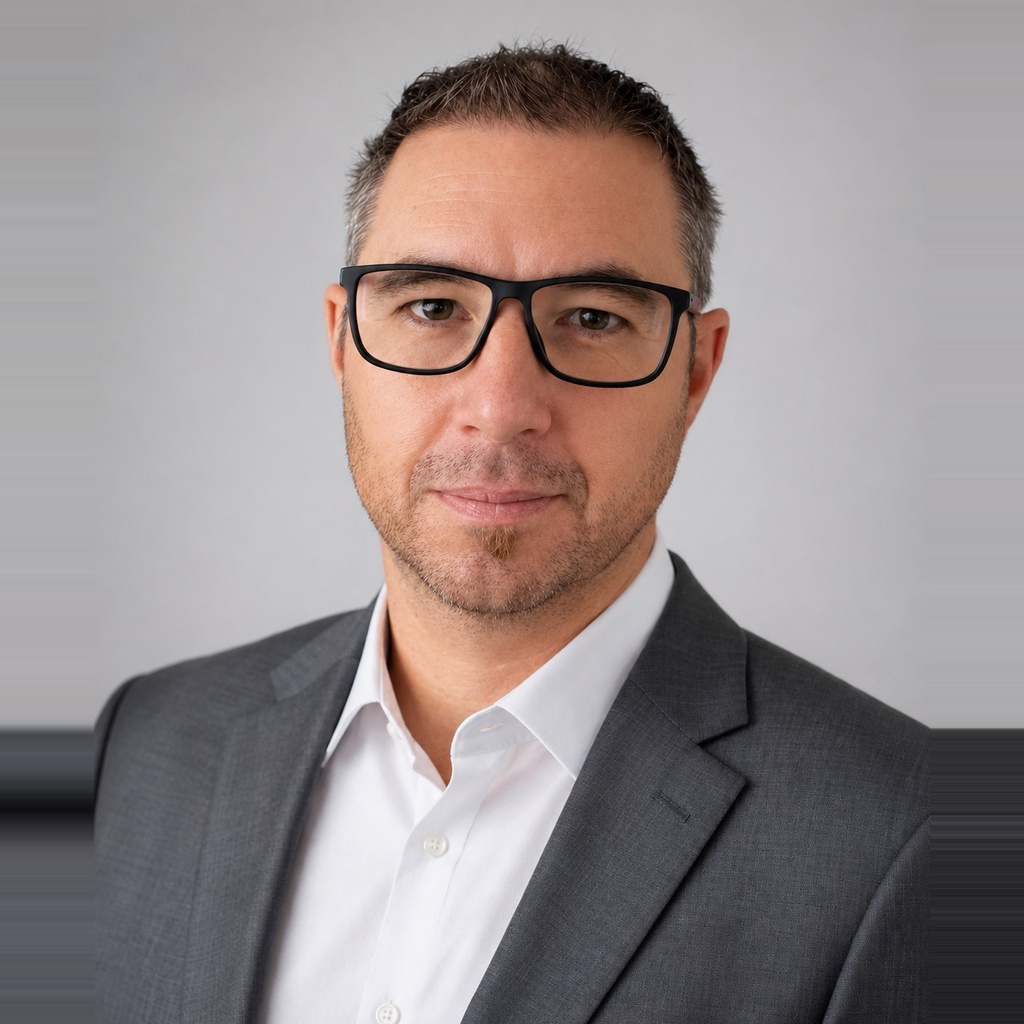
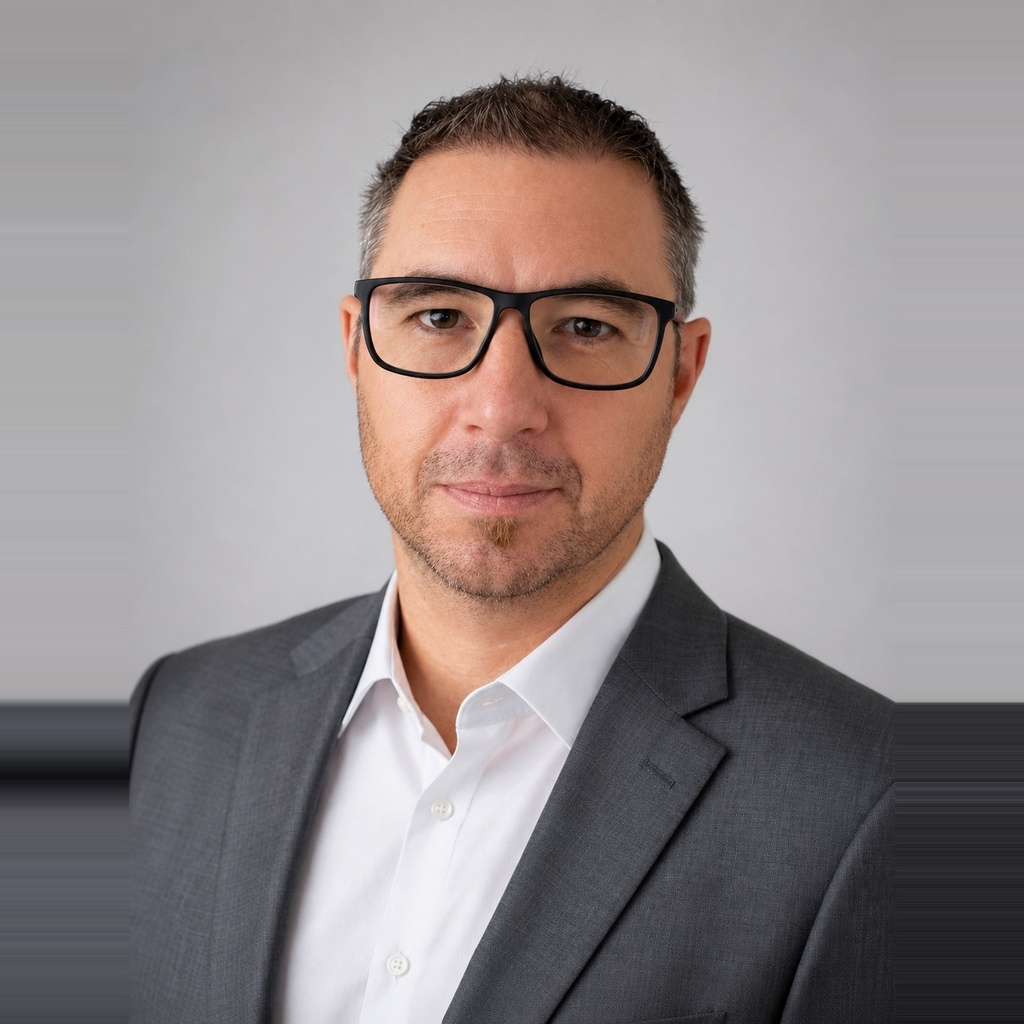
Zoom in Alison profile, zoom out Alan profile, replace Maria photo with placeholder

diff --git a/about.html b/about.html
@@ -109,7 +109,7 @@
         <!-- Maria Fargher -->
         <div class="team-card">
           <div class="team-card-inner">
-            <img src="maria.jpg" alt="Maria Fargher, Founding Director" class="team-member-img" />
+            <div class="team-member-img-placeholder">MF</div>
             <span class="team-member-role">Founding Director</span>
             <h3 class="team-member-name">Maria Fargher</h3>
             <p class="team-member-bio"></p>
